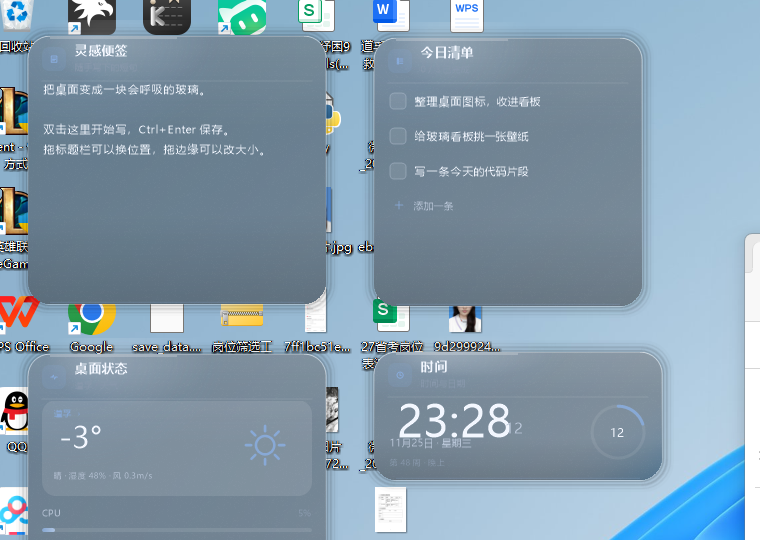
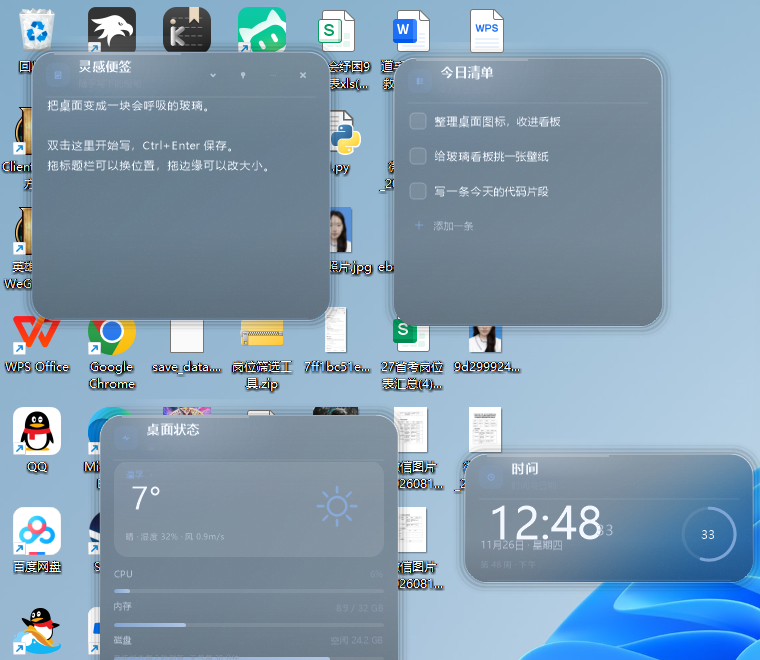
feat: 图标整理撤销与自定义分组 (v1.1.0) (#11)
撤销上次整理 + groups.txt 自定义分组；同步 v1.1.0 测试与截图 (#2 #3 #5)

diff --git a/src/Icons.cs b/src/Icons.cs
@@ -6,6 +6,7 @@ using System.Drawing;
 using System.Drawing.Drawing2D;
 using System.IO;
 using System.Runtime.InteropServices;
+using System.Text;
 using System.Threading;
 
 namespace Liuli
@@ -22,9 +23,10 @@ namespace Liuli
     {
         static readonly Dictionary<string, Bitmap> cache = new Dictionary<string, Bitmap>();
         static readonly object gate = new object();
-        static readonly Dictionary<string, string> groups = BuildGroups();
 
         public static readonly string[] GroupOrder = { "应用", "文件夹", "文档", "图片", "影音", "压缩包", "代码", "其他" };
+
+        static readonly Dictionary<string, string> groups = BuildGroups();
 
         static Dictionary<string, string> BuildGroups()
         {
@@ -35,7 +37,33 @@ namespace Liuli
             Put(d, "影音", "mp4", "mkv", "avi", "mov", "wmv", "flv", "webm", "m4v", "mp3", "wav", "flac", "m4a", "aac", "ogg", "wma");
             Put(d, "压缩包", "zip", "rar", "7z", "tar", "gz", "bz2", "xz");
             Put(d, "代码", "cs", "py", "ps1", "js", "ts", "json", "xml", "html", "css", "sql", "java", "c", "cpp", "h", "lua", "sh", "ini", "yml", "yaml");
+            LoadCustom(d);
             return d;
+        }
+
+        /// <summary>data\groups.txt 自定义扩展名分组，行格式 ext=分组；只接受 GroupOrder 里已有的分组。</summary>
+        static void LoadCustom(Dictionary<string, string> d)
+        {
+            try
+            {
+                string f = Path.Combine(Paths.Data, "groups.txt");
+                if (!File.Exists(f)) return;
+                string[] lines = File.ReadAllLines(f, Encoding.UTF8);
+                for (int i = 0; i < lines.Length; i++)
+                {
+                    string line = lines[i].Trim();
+                    if (line.Length == 0 || line.StartsWith("#") || line.StartsWith("//")) continue;
+                    int eq = line.IndexOf('=');
+                    if (eq <= 0) continue;
+                    string ext = line.Substring(0, eq).Trim().TrimStart('.').ToLowerInvariant();
+                    string g = line.Substring(eq + 1).Trim();
+                    if (ext.Length == 0) continue;
+                    if (Array.IndexOf(GroupOrder, g) < 0) { Log.Warn("icons", "groups.txt 分组无效：" + line); continue; }
+                    d[ext] = g;
+                }
+                Log.Info("icons", "groups.txt 自定义规则已加载");
+            }
+            catch (Exception ex) { Log.Warn("icons", "groups.txt 解析失败 " + ex.Message); }
         }
 
         static void Put(Dictionary<string, string> d, string group, params string[] exts)
@@ -198,6 +226,13 @@ namespace Liuli
         public static int OrganizeToBoards(List<DeskItem> items, Rectangle work)
         {
             if (items == null || items.Count == 0) return 0;
+            try
+            {
+                Paths.Ensure();
+                if (File.Exists(Paths.BoardsFile)) File.Copy(Paths.BoardsFile, Paths.UndoFile, true);
+                Log.Info("icons", "整理前快照 " + Paths.UndoFile);
+            }
+            catch (Exception ex) { Log.Warn("icons", "整理前快照失败 " + ex.Message); }
             int created = 0;
             Dictionary<string, List<DeskItem>> byGroup = new Dictionary<string, List<DeskItem>>();
             for (int k = 0; k < items.Count; k++)

diff --git a/src/SettingsForm.cs b/src/SettingsForm.cs
@@ -139,6 +139,8 @@ namespace Liuli
                     App.ShowKindMenu(new Point(Left + Width / 2, Top + Util.RoundI(160 * Theme.S)));
                 });
                 AddButton("一键整理桌面图标", "按类型分组成看板，只收入口，不动桌面原件", y, false, delegate { App.OrganizeDesktop(); });
+                AddButton("撤销上次整理", "恢复到上一次整理之前的看板布局（只保留一步）", y, false, delegate { App.UndoOrganize(); });
+                AddInfo("自定义分组", "在 data\\groups.txt 里按 ext=分组 写规则，分组名用 应用/文件夹/文档/图片/影音/压缩包/代码/其他，重启 Liuli 后生效。", y);
                 AddToggle("隐藏桌面图标", "由系统桌面开关控制，退出时恢复；随时可再打开", y,
                     delegate { return App.Ws.Set.HideDesktopIcons ? 1 : 0; }, delegate (int v) { App.SetDesktopIconsHidden(v == 1); });
                 AddButton("把看板收回屏幕内", "多屏切换或分辨率变了以后用", y, false, delegate { App.RescueBoards(); });

diff --git a/src/App.cs b/src/App.cs
@@ -586,6 +586,25 @@ namespace Liuli
             Toast(created > 0 ? "整理了 " + items.Count + " 个入口，生成 " + created + " 块看板" : "入口已更新到文件看板");
         }
 
+        public static void UndoOrganize()
+        {
+            if (!File.Exists(Paths.UndoFile)) { Toast("还没有可撤销的整理"); return; }
+            try
+            {
+                File.Copy(Paths.UndoFile, Paths.BoardsFile, true);
+                Ws = Store.Load(ScreenRects());
+                RebuildAllWindows();
+                File.Delete(Paths.UndoFile);
+                Log.Info("icons", "撤销上次整理，看板 " + Ws.Boards.Count + " 块");
+                Toast("已撤销上次整理");
+            }
+            catch (Exception ex)
+            {
+                Log.Error("icons", ex);
+                Toast("撤销失败，看日志");
+            }
+        }
+
         // ---------- 杂项 ----------
         public static void Save()
         {

diff --git a/src/Base.cs b/src/Base.cs
@@ -34,6 +34,7 @@ namespace Liuli
         public static string Backups { get { return Path.Combine(Data, "backups"); } }
         public static string IconCache { get { return Path.Combine(Data, "icons"); } }
         public static string ShotDir { get { return Path.Combine(Data, "shots"); } }
+        public static string UndoFile { get { return Path.Combine(Data, "undo-organize.json"); } }
 
         public static void Ensure()
         {
@@ -49,7 +50,7 @@ namespace Liuli
 
     static class V
     {
-        public const string Version = "1.0.2";
+        public const string Version = "1.1.0";
         public const string Name = "Liuli 琉璃";
         public const string Tagline = "把桌面变成一块会呼吸的玻璃看板";
     }

diff --git a/docs/TESTING.md b/docs/TESTING.md
@@ -24,6 +24,18 @@
 结论：默认四块看板下内存与闲置 CPU 均达到既定目标（<80MB / <1%）。
 补充观察：图标整理后 11 块看板时 Working Set 约 79~81MB，接近 80MB 上限；属于极端布局，未做进一步优化，已记录为后续优化项。
 
+## 性能实测（2026-11-26，v1.1.0）
+
+| 指标 | 结果 | 测量方式 |
+| --- | --- | --- |
+| 常驻内存（Working Set） | 56.8MB | 重启后闲置 60s `(Get-Process Liuli).WorkingSet64` |
+| 私有内存 | 31.1MB | `PrivateMemorySize64` |
+| 闲置 CPU | 0.06%（单核占比） | `TotalProcessorTime` 20 秒增量 / 20 / 逻辑核数 |
+| exe 体积 | 150KB（153600B） | 构建输出 |
+| 磨砂烘焙 | 203~234ms | 日志 `[wall] 磨砂重烘 ... ms=` |
+
+结论：默认四块看板下仍在目标内（<80MB / <1%）。图标整理生成 11 块看板并渲染 70 个图标后，Working Set 升至约 79MB，属极端布局，记录为后续优化项。
+
 ## 已跑通
 
 - 编译（csc，C# 5，UTF-8 BOM）
@@ -39,6 +51,10 @@
 - 拖拽标题栏：看板位置变化并落盘；单击不再引起磁吸位移
 - 设置页：磁吸、总在最前、显示控制条开关点验通过（配置与行为一致）
 - 隐藏桌面图标：点击后图标真实隐藏（`nowVisible=False`），再点恢复（`nowVisible=True`），v1.0.2 修复后通过
+- 设置回归（#2，v1.0.2/v1.1.0）：玻璃浓度 100→40、磨砂 62→20（触发重烘 218ms）、圆角 22→16 均落盘并有视觉变化；壁纸压暗 30→56、全屏暂停、视频静音写入正确
+- 壁纸来源：切「图片」→ 选择 `img0.jpg` → `wallMode=image`、壁纸生效、日志 `[wall] 图片壁纸已设置`；点「恢复系统壁纸」→ `wallMode=system`、`wallPath` 清空、按系统壁纸重烘
+- 图标整理撤销（#3，v1.1.0）：整理前写快照，整理 4→11 块；点「撤销上次整理」恢复为 4 块，快照自动删除，日志 `[icons] 撤销上次整理，看板 4 块`
+- 自定义分组（#3，v1.1.0）：`data\groups.txt` 写入 `sketch=图片`，重启后首次整理日志 `[icons] groups.txt 自定义规则已加载`；非法分组名会告警并忽略
 
 ## 已知不通过
 
@@ -49,7 +65,7 @@
 - 编辑器其余路径（待办回车新增、代码卡片编辑、文件拖入）
 - 视频壁纸（WMP + WorkerW）未在本机实测
 - Win10 1903、125%/150%/200% 缩放、负坐标多屏之外的布局
-- 设置面板的玻璃浓度/磨砂/圆角滑块、壁纸来源与压暗、暂停/静音、自动启动未逐项点验（#2）
+- 开机自启与设置面板「数据」页的清理图标缓存/恢复默认布局未逐项点验（自动启动目前只有配置字段，未暴露成开关）
 - 八方向缩放未逐项手势回归
 
 以上均已在 GitHub Issues 建单跟踪，不在此处标记为“通过”。

diff --git a/docs/DESIGN.md b/docs/DESIGN.md
@@ -79,7 +79,7 @@ Program.cs     入口、单实例、DPI、异常兜底
 `bin\data\boards.json`：
 
 ```json
-{ "app":"Liuli", "version":"1.0.0", "settings":{...}, "boards":[{ "id":"b...", "kind":0, "x":32, "y":32, "w":330, "h":300, ... }] }
+{ "app":"Liuli", "version":"1.1.0", "settings":{...}, "boards":[{ "id":"b...", "kind":0, "x":32, "y":32, "w":330, "h":300, ... }] }
 ```
 
 - `W/H` 是含 16px 投影外留白的窗口尺寸，玻璃主体 = `Glass.Body`
@@ -87,6 +87,13 @@ Program.cs     入口、单实例、DPI、异常兜底
 - 保存：写 `*.tmp` 后 `File.Replace`；加载失败把坏文件改名为 `.broken-<时间戳>` 再回退默认
 - 备份：`ZipArchive` 打包 boards/settings/weather/icons 索引，文件名 `Liuli-backup-YYYYMMDD-HHmm.zip`
 - 导入前先自动备份当前状态
+
+### 5.1 图标整理与撤销
+
+- 扫描用户桌面 + 公共桌面（隐藏项跳过），按扩展名分组：内置表 + 可选 `data\groups.txt`（`扩展名=分组`）覆盖；只接受 应用/文件夹/文档/图片/影音/压缩包/代码/其他 八个组名，非法规则告警后忽略
+- 整理不移动、不删除桌面文件，只生成文件看板入口；同名文件看板原地更新，否则靠主屏右侧两列新建，单板最多 40 项
+- 整理前把 `boards.json` 复制为 `data\undo-organize.json`（只保留最近一步）；「撤销上次整理」用快照覆盖配置、`Store.Load` 重新解析、`RebuildAllWindows` 重建窗口，然后删除快照
+- 取舍：撤销按整文件快照恢复，会把整理后对其它看板的改动一并回退；换来实现简单、可解释，适合“整理错了立刻反悔”的场景
 
 ## 6. 性能预算
 

diff --git a/docs/CHANGELOG.md b/docs/CHANGELOG.md
@@ -2,6 +2,25 @@
 
 遵循 Keep a Changelog；版本遵循 SemVer。
 
+## [1.1.0] - 2026-11-26
+
+### 新增
+
+- 图标整理支持「撤销上次整理」：整理前把 `boards.json` 快照到 `data\undo-organize.json`，撤销时恢复快照并重建看板；只保留最近一步（#3）
+- 自定义图标分组：`data\groups.txt` 按 `扩展名=分组` 覆盖默认归类，分组名须在 应用/文件夹/文档/图片/影音/压缩包/代码/其他 之内，非法规则告警并忽略（#3）
+- 设置 → 看板新增「撤销上次整理」按钮与自定义分组说明（#3）
+
+### 变更
+
+- 版本号 1.0.2 → 1.1.0
+- 设置面板「看板」页行距随新按钮下移（不影响其它页）
+
+### 验证
+
+- 整理 4 块 → 11 块，快照生成；撤销后恢复 4 块、快照删除，日志可追溯
+- `groups.txt` 规则加载有日志；非法分组名被忽略
+- 设置项回归：#2 中滑块、壁纸来源/恢复系统壁纸、暂停/静音配置全部通过（详见 `docs/TESTING.md`）
+
 ## [1.0.2] - 2026-11-26
 
 ### 修复
